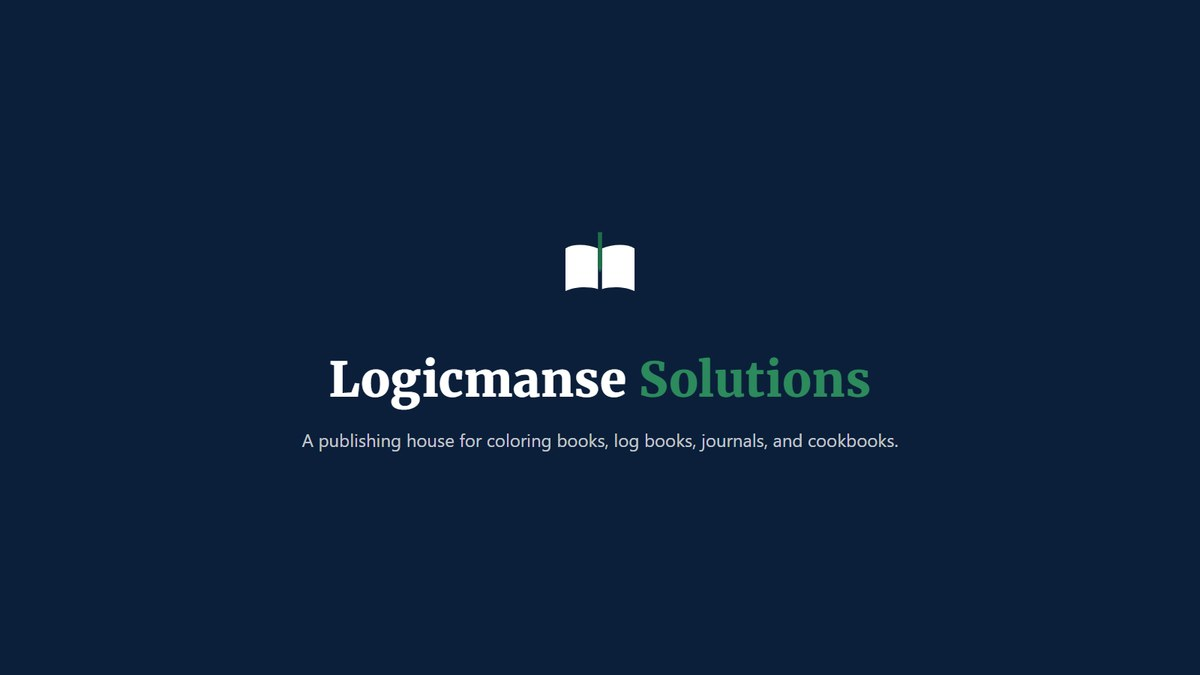
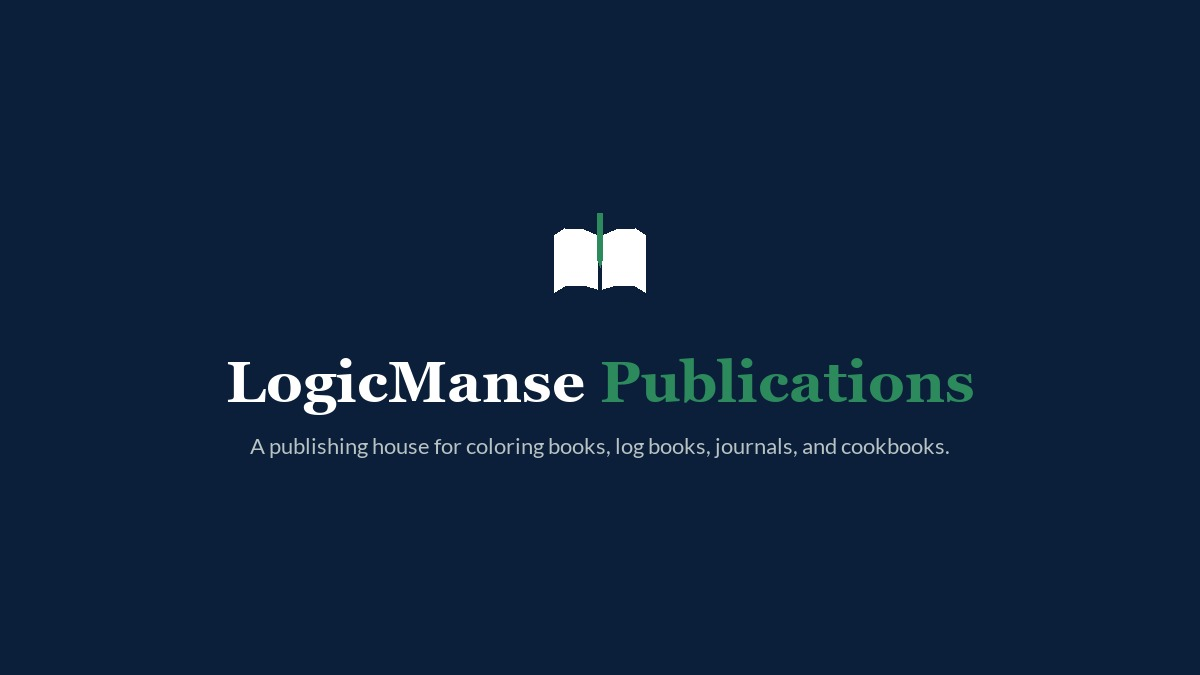
Switch site brand copy from Logicmanse Solutions to LogicManse Publications
The two names were already doing two different jobs before this commit,
and stay that way — this only fixes which one showed up where.

  businessName  "Logicmanse Solutions Canada Inc." — the registered
                legal entity. Untouched: still the data-controller line
                in the privacy policy, the footer's copyright/
                registration line, and (now made explicit rather than
                left implicit) the About page's corporate-registration
                sentence.
  imprintName   "LogicManse Publications" (new field, replaces the old
                shortName) — the publishing imprint already on every
                book: the colophon, "A LogicManse Publication" on all
                three QR pages, the Etsy shop, Pinterest. The website's
                own header, tab titles, taglines and meta descriptions
                were the one place still saying "Logicmanse Solutions,"
                which put the site out of step with everything else
                that already carries the imprint name.

Matched the capitalisation already established everywhere else this
name appears — "LogicManse" with a capital M — rather than introduce a
third casing variant; confirmed by grepping 50+ existing references
across the book blueprints before touching anything.

Also rebuilt public/about/brand-hero.jpg: it's a JPG with the old
two-tone wordmark baked into its pixels, which no text-based rename
[…]

Changed region(s): [[0.185, 0.5289, 0.8325, 0.6844], [0.4625, 0.3111, 0.555, 0.4356]]

diff --git a/src/data/site.ts b/src/data/site.ts
@@ -5,12 +5,25 @@
 // ----------------------------------------------------------------
 
 export const SITE = {
+  // Two names, two jobs — do not collapse them into one.
+  //   businessName — the REGISTERED LEGAL ENTITY. Use only where the site
+  //     is making a legal statement about who operates it: the privacy
+  //     policy's data-controller line, the footer's copyright/registration
+  //     line, the About page's "registered corporate entity" sentence.
+  //     Changing this without actually re-registering the corporation
+  //     would make those statements false.
+  //   imprintName — the PUBLISHING IMPRINT, "LogicManse Publications".
+  //     This is what already appears on every book: the colophon, the
+  //     back cover, "A LogicManse Publication" on each QR page, the
+  //     Etsy shop, Pinterest. Use this everywhere else — taglines,
+  //     headings, page titles, meta descriptions — so the site matches
+  //     what readers already see on the books themselves.
   businessName: 'Logicmanse Solutions Canada Inc.',
-  shortName: 'Logicmanse Solutions',
+  imprintName: 'LogicManse Publications',
   domain: 'www.logicmanse.ca',
   tagline: 'Books Made to Be Used, Not Just Read.',
   subTagline:
-    'Logicmanse Solutions publishes coloring books, log books, journals, and cookbooks — plain, practical, and built around how you actually use them, not just what looks good on a shelf.',
+    'LogicManse Publications publishes coloring books, log books, journals, and cookbooks — plain, practical, and built around how you actually use them, not just what looks good on a shelf.',
 
   // TODO (@Antz): replace with the real branded inbox once it's created
   // in your GoDaddy / email provider control panel, e.g. info@logicmanse.ca
